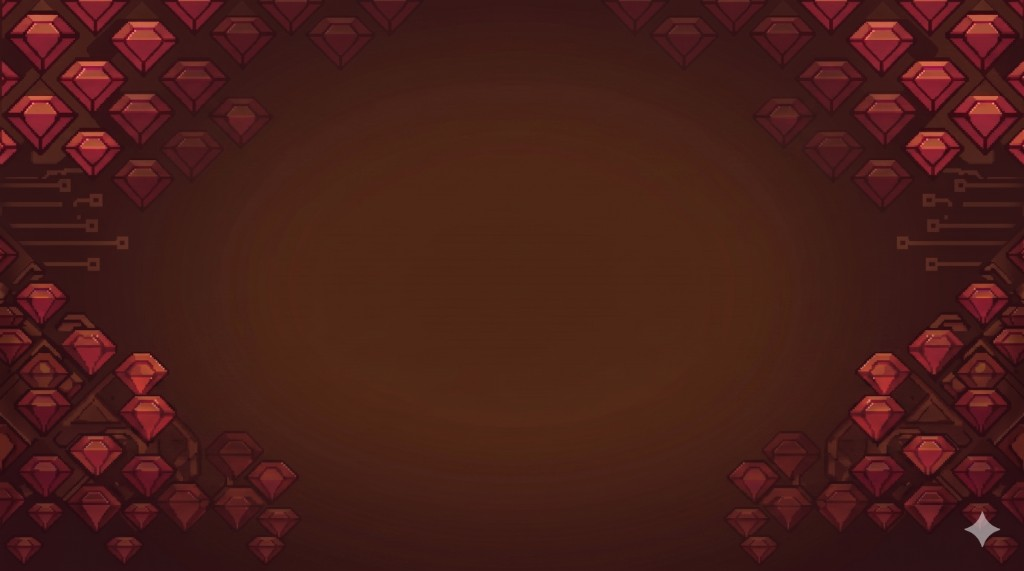
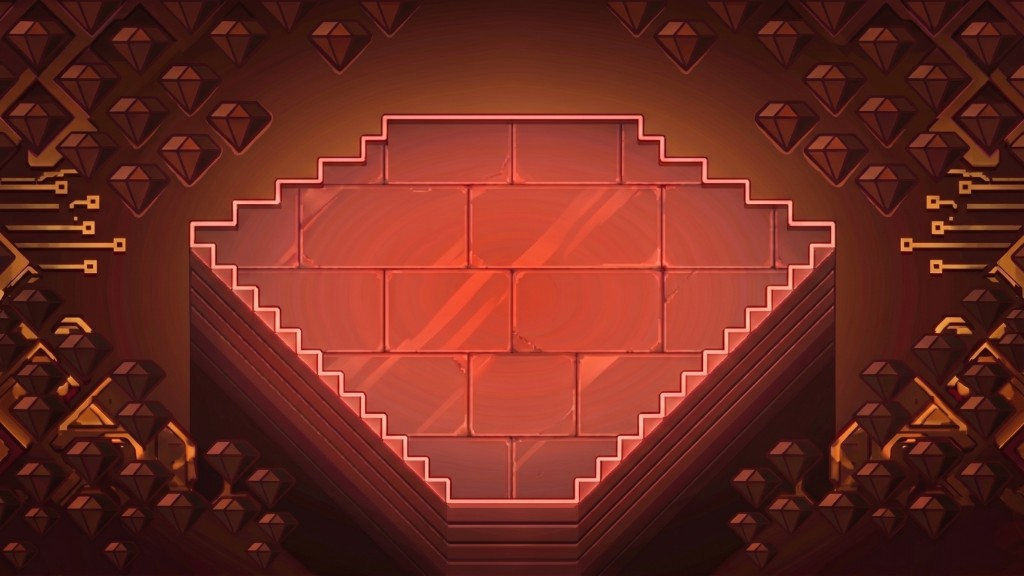
feat: タイトル調整・試合前カウントダウン・ロゴ透過処理

diff --git a/build/rubyfight.js b/build/rubyfight.js
@@ -24735,7 +24735,7 @@ Opal.modules["rubyfight/game_config"] = function(Opal) {
         grid_rows = 18;
         field_w = $rb_times(tile, grid_cols);
         field_h = $rb_times(tile, grid_rows);
-        return $hash2(["WIDTH", "HEIGHT", "TILE_SIZE", "GRID_COLS", "GRID_ROWS", "PLAYER_SIZE", "BASE_SPEED", "SPEED_UP_MULTIPLIER", "CPU_SPEED_MULTIPLIER", "PLAYER_VIS_SMOOTH", "COLORS", "GAME_TIME", "RUSH_TIME", "PLAY_P1_SHEET", "PLAY_P2_SHEET", "TITLE_PARTS", "LOGO_REMOVE_EDGE_BLACK", "LOGO_KEY_MAX_RGB", "TITLE_CHAR_RED_SHEET", "TITLE_CHAR_BLUE_SHEET", "TITLE_BACKGROUND_URL", "ASSET_SHEET", "FIELD_WIDTH", "FIELD_HEIGHT", "OFFSET_X", "OFFSET_Y"], {"WIDTH": width, "HEIGHT": height, "TILE_SIZE": tile, "GRID_COLS": grid_cols, "GRID_ROWS": grid_rows, "PLAYER_SIZE": 28, "BASE_SPEED": 160, "SPEED_UP_MULTIPLIER": 1.4, "CPU_SPEED_MULTIPLIER": 1.42, "PLAYER_VIS_SMOOTH": 0, "COLORS": $hash2(["bg", "fieldBg", "p1", "p2", "ui", "highlight", "hudGold", "hudGoldDim"], {"bg": "#2e0f0f", "fieldBg": "#4a1a1a", "p1": $hash2(["tile", "player"], {"tile": "#e65c5c", "player": "#c44848"}), "p2": $hash2(["tile", "player"], {"tile": "#6ea2e4", "player": "#487ec4"}), "ui": "#ffdddd", "highlight": "#ffffff", "hudGold": "#f5b042", "hudGoldDim": "#c98a2c"}), "GAME_TIME": 55, "RUSH_TIME": 15, "PLAY_P1_SHEET": $hash2(["urlLeft", "urlRight", "cols", "rows", "frameLayout", "walkCyclesPerSec", "removeMatte", "matteDarkMax", "matteColorMin"], {"urlLeft": "assets/play/p1_walk_left.png", "urlRight": "assets/play/p1_walk_right.png", "cols": 4, "rows": 1, "frameLayout": "row", "walkCyclesPerSec": 10, "removeMatte": true, "matteDarkMax": 40, "matteColorMin": 45}), "PLAY_P2_SHEET": $hash2(["url", "cols", "rows", "frameLayout", "walkCyclesPerSec", "removeEdgeWhite", "keyMinRgb"], {"url": "assets/play/p2_walk.png", "cols": 4, "rows": 1, "frameLayout": "row", "walkCyclesPerSec": 10, "removeEdgeWhite": true, "keyMinRgb": 248}), "TITLE_PARTS": $hash2(["background", "logo", "charLeft", "charRight"], {"background": "", "logo": "assets/title/logo.png", "charLeft": "", "charRight": ""}), "LOGO_REMOVE_EDGE_BLACK": true, "LOGO_KEY_MAX_RGB": 32, "TITLE_CHAR_RED_SHEET": $hash2(["url", "cols", "rows", "frameWidth", "frameHeight", "frameLayout", "fps", "frameStart", "frameCount", "fit", "clip", "sheetVAlign", "keyByMaxChannel", "removeEdgeBlack", "removeMatte", "matteDarkMax", "matteColorMin"], {"url": "assets/title/char_red_sheet.png?v=17", "cols": 24, "rows": 1, "frameWidth": 57, "frameHeight": 80, "frameLayout": "row", "fps": 24, "frameStart": 0, "frameCount": 24, "fit": "contain", "clip": false, "sheetVAlign": "bottom", "keyByMaxChannel": 24, "removeEdgeBlack": false, "removeMatte": false, "matteDarkMax": 40, "matteColorMin": 34}), "TITLE_CHAR_BLUE_SHEET": $hash2(["url", "cols", "rows", "frameLayout", "fps", "frameStart", "frameCount", "fit", "clip", "sheetVAlign", "sheetSourceUniformMax", "atlasSourceExact", "sheetSourceTrimEndX", "keyByMaxChannel", "removeEdgeBlack", "removeMatte"], {"url": "assets/title/char_blue_sheet.png?v=40", "cols": 24, "rows": 1, "frameLayout": "row", "fps": 24, "frameStart": 0, "frameCount": 24, "fit": "contain", "clip": false, "sheetVAlign": "center", "sheetSourceUniformMax": false, "atlasSourceExact": false, "sheetSourceTrimEndX": 4, "keyByMaxChannel": 32, "removeEdgeBlack": false, "removeMatte": false}), "TITLE_BACKGROUND_URL": "assets/title/title_background.png", "ASSET_SHEET": $hash2(["url", "sheetW", "sheetH", "cols", "rows", "gridRect", "cellInset", "tileScale", "cells"], {"url": "assets/title/asset_sheet.png", "sheetW": 1024, "sheetH": 571, "cols": 3, "rows": 2, "gridRect": $hash2(["x", "y", "w", "h"], {"x": 12, "y": 54, "w": 1000, "h": 476}), "cellInset": 2, "tileScale": 0.55, "cells": $hash2(["logo", "charRed", "charBlue", "backgroundPattern", "fieldGrid", "uiRef"], {"logo": [0, 0], "charRed": [1, 0], "charBlue": [2, 0], "backgroundPattern": [0, 1], "fieldGrid": [1, 1], "uiRef": [2, 1]})}), "FIELD_WIDTH": field_w, "FIELD_HEIGHT": field_h, "OFFSET_X": $rb_divide($rb_minus(width, field_w), 2), "OFFSET_Y": 110});
+        return $hash2(["WIDTH", "HEIGHT", "TILE_SIZE", "GRID_COLS", "GRID_ROWS", "PLAYER_SIZE", "BASE_SPEED", "SPEED_UP_MULTIPLIER", "CPU_SPEED_MULTIPLIER", "PLAYER_VIS_SMOOTH", "COLORS", "GAME_TIME", "RUSH_TIME", "PREPLAY_COUNTDOWN_SEC", "PLAY_P1_SHEET", "PLAY_P2_SHEET", "TITLE_PARTS", "LOGO_REMOVE_EDGE_BLACK", "LOGO_KEY_MAX_RGB", "LOGO_KEY_BY_MAX_CHANNEL", "TITLE_CHAR_RED_SHEET", "TITLE_CHAR_BLUE_SHEET", "TITLE_BACKGROUND_URL", "ASSET_SHEET", "FIELD_WIDTH", "FIELD_HEIGHT", "OFFSET_X", "OFFSET_Y"], {"WIDTH": width, "HEIGHT": height, "TILE_SIZE": tile, "GRID_COLS": grid_cols, "GRID_ROWS": grid_rows, "PLAYER_SIZE": 28, "BASE_SPEED": 160, "SPEED_UP_MULTIPLIER": 1.4, "CPU_SPEED_MULTIPLIER": 1.42, "PLAYER_VIS_SMOOTH": 0, "COLORS": $hash2(["bg", "fieldBg", "p1", "p2", "ui", "highlight", "hudGold", "hudGoldDim"], {"bg": "#2e0f0f", "fieldBg": "#4a1a1a", "p1": $hash2(["tile", "player"], {"tile": "#e65c5c", "player": "#c44848"}), "p2": $hash2(["tile", "player"], {"tile": "#6ea2e4", "player": "#487ec4"}), "ui": "#ffdddd", "highlight": "#ffffff", "hudGold": "#f5b042", "hudGoldDim": "#c98a2c"}), "GAME_TIME": 55, "RUSH_TIME": 15, "PREPLAY_COUNTDOWN_SEC": 5, "PLAY_P1_SHEET": $hash2(["urlLeft", "urlRight", "cols", "rows", "frameLayout", "walkCyclesPerSec", "removeMatte", "matteDarkMax", "matteColorMin"], {"urlLeft": "assets/play/p1_walk_left.png", "urlRight": "assets/play/p1_walk_right.png", "cols": 4, "rows": 1, "frameLayout": "row", "walkCyclesPerSec": 10, "removeMatte": true, "matteDarkMax": 40, "matteColorMin": 45}), "PLAY_P2_SHEET": $hash2(["url", "cols", "rows", "frameLayout", "walkCyclesPerSec", "removeEdgeWhite", "keyMinRgb"], {"url": "assets/play/p2_walk.png", "cols": 4, "rows": 1, "frameLayout": "row", "walkCyclesPerSec": 10, "removeEdgeWhite": true, "keyMinRgb": 248}), "TITLE_PARTS": $hash2(["background", "logo", "charLeft", "charRight"], {"background": "", "logo": "assets/title/logo.png", "charLeft": "", "charRight": ""}), "LOGO_REMOVE_EDGE_BLACK": true, "LOGO_KEY_MAX_RGB": 32, "LOGO_KEY_BY_MAX_CHANNEL": 24, "TITLE_CHAR_RED_SHEET": $hash2(["url", "cols", "rows", "frameWidth", "frameHeight", "frameLayout", "fps", "frameStart", "frameCount", "fit", "clip", "sheetVAlign", "keyByMaxChannel", "removeEdgeBlack", "removeMatte", "matteDarkMax", "matteColorMin"], {"url": "assets/title/char_red_sheet.png?v=17", "cols": 24, "rows": 1, "frameWidth": 57, "frameHeight": 80, "frameLayout": "row", "fps": 24, "frameStart": 0, "frameCount": 24, "fit": "contain", "clip": false, "sheetVAlign": "bottom", "keyByMaxChannel": 24, "removeEdgeBlack": false, "removeMatte": false, "matteDarkMax": 40, "matteColorMin": 34}), "TITLE_CHAR_BLUE_SHEET": $hash2(["url", "cols", "rows", "frameLayout", "fps", "frameStart", "frameCount", "fit", "clip", "sheetVAlign", "sheetSourceUniformMax", "atlasSourceExact", "sheetSourceTrimEndX", "keyByMaxChannel", "removeEdgeBlack", "removeMatte"], {"url": "assets/title/char_blue_sheet.png?v=40", "cols": 24, "rows": 1, "frameLayout": "row", "fps": 24, "frameStart": 0, "frameCount": 24, "fit": "contain", "clip": false, "sheetVAlign": "center", "sheetSourceUniformMax": false, "atlasSourceExact": false, "sheetSourceTrimEndX": 4, "keyByMaxChannel": 32, "removeEdgeBlack": false, "removeMatte": false}), "TITLE_BACKGROUND_URL": "assets/title/title_background.png", "ASSET_SHEET": $hash2(["url", "sheetW", "sheetH", "cols", "rows", "gridRect", "cellInset", "tileScale", "cells"], {"url": "assets/title/asset_sheet.png", "sheetW": 1024, "sheetH": 571, "cols": 3, "rows": 2, "gridRect": $hash2(["x", "y", "w", "h"], {"x": 12, "y": 54, "w": 1000, "h": 476}), "cellInset": 2, "tileScale": 0.55, "cells": $hash2(["logo", "charRed", "charBlue", "backgroundPattern", "fieldGrid", "uiRef"], {"logo": [0, 0], "charRed": [1, 0], "charBlue": [2, 0], "backgroundPattern": [0, 1], "fieldGrid": [1, 1], "uiRef": [2, 1]})}), "FIELD_WIDTH": field_w, "FIELD_HEIGHT": field_h, "OFFSET_X": $rb_divide($rb_minus(width, field_w), 2), "OFFSET_Y": 110});
       }, $GameConfig_to_browser_hash$1.$$arity = 0);
       Opal.defs(self, '$field_width', $GameConfig_field_width$2 = function $$field_width() {
         var self = this;

diff --git a/index.html b/index.html
@@ -99,7 +99,8 @@
       },
 
       GAME_TIME: 55,         
-      RUSH_TIME: 15,         
+      RUSH_TIME: 15,
+      PREPLAY_COUNTDOWN_SEC: 5,
 
       PLAY_P1_SHEET: {
         urlLeft: 'assets/play/p1_walk_left.png',
@@ -131,9 +132,10 @@
         charRight: ''
       },
 
-      // ロゴ PNG が黒ベタ背景のとき、画面端からつながる近黒ピクセルだけ透明化（文字の内側の黒は残しやすい）
+      // ロゴ PNG: 周縁からの近黒 BFS → 任意で max(r,g,b) しきいで穴のベタ黒も透過（keyDarkByMaxChannel）
       LOGO_REMOVE_EDGE_BLACK: true,
       LOGO_KEY_MAX_RGB: 32,
+      LOGO_KEY_BY_MAX_CHANNEL: 24,
 
       TITLE_CHAR_RED_SHEET: {
         url: 'assets/title/char_red_sheet.png?v=17',
@@ -344,6 +346,10 @@
     let rubyBounceGrid = [];
     /** タイトルメニュー 0..1: 1P VS CPU, 1P VS 2P */
     let titleMenuIndex = 0;
+
+    /** 試合直前カウントダウン（state === 'COUNTDOWN'） */
+    let countdownElapsed = 0;
+    let countdownLastFloor = -1;
     
     let p1 = { x: 0, y: 0 };
     let p2 = { x: 0, y: 0 };
@@ -1377,11 +1383,16 @@
       jobs.forEach(([key, url]) => {
         pending++;
         loadImageSrc(url).then((img) => {
-          if (key === 'logo' && img && CONFIG.LOGO_REMOVE_EDGE_BLACK) {
-            titlePartImages[key] = removeEdgeConnectedNearBlack(
-              img,
-              CONFIG.LOGO_KEY_MAX_RGB
-            );
+          if (key === 'logo' && img) {
+            let out = img;
+            if (CONFIG.LOGO_REMOVE_EDGE_BLACK) {
+              out = removeEdgeConnectedNearBlack(out, CONFIG.LOGO_KEY_MAX_RGB);
+            }
+            const kmc = CONFIG.LOGO_KEY_BY_MAX_CHANNEL;
+            if (kmc != null && kmc !== '' && isFinite(Number(kmc))) {
+              out = keyDarkByMaxChannel(out, Number(kmc));
+            }
+            titlePartImages[key] = out;
           } else {
             titlePartImages[key] = img;
           }
@@ -1442,6 +1453,13 @@
         gain.gain.exponentialRampToValueAtTime(0.01, now + 0.1);
         osc.start(now);
         osc.stop(now + 0.1);
+      } else if (type === 'countdown') {
+        osc.type = 'square';
+        osc.frequency.setValueAtTime(720, now);
+        gain.gain.setValueAtTime(0.08, now);
+        gain.gain.exponentialRampToValueAtTime(0.01, now + 0.07);
+        osc.start(now);
+        osc.stop(now + 0.08);
       } else if (type === 'finish') {
         osc.type = 'triangle';
         osc.frequency.setValueAtTime(880, now);
@@ -1740,7 +1758,11 @@
           }
         }
         return;
-      } else if (state === 'PLAYING') {
+      }
+      if (state === 'COUNTDOWN') {
+        return;
+      }
+      if (state === 'PLAYING') {
         if (mode === 1) {
           if (code === 'Space' || code === 'Enter') placeFlag(p1, 1);
         } else {
@@ -1768,8 +1790,9 @@
     // ゲームロジック
     // ==========================================
     function startGame() {
-      state = 'PLAYING';
-      stateStartTime = Date.now();
+      state = 'COUNTDOWN';
+      countdownElapsed = 0;
+      countdownLastFloor = -1;
       if (window.RUBYFIGHT && window.RUBYFIGHT_SYNCED && typeof window.RUBYFIGHT.sessionInitialTimeRemaining === 'function') {
         timeRemaining = window.RUBYFIGHT.sessionInitialTimeRemaining();
       } else {
@@ -1829,8 +1852,6 @@
       p2LastPos = { x: p2.x, y: p2.y };
 
       calcScore();
-      // playSound は Web Audio 失敗しうる。state=PLAYING のあと最後に（途中で投げると grid/p1 未初期化のままになる）
-      playSound('select');
       canvas.focus({ preventScroll: true });
     }
 
@@ -2161,6 +2182,22 @@
     }
 
     function update(dt) {
+      if (state === 'COUNTDOWN') {
+        const raw = CONFIG.PREPLAY_COUNTDOWN_SEC != null ? CONFIG.PREPLAY_COUNTDOWN_SEC : 5;
+        const total = isFinite(Number(raw)) && Number(raw) > 0 ? Number(raw) : 5;
+        countdownElapsed += dt;
+        const f = Math.floor(countdownElapsed);
+        if (f !== countdownLastFloor) {
+          countdownLastFloor = f;
+          if (f < total) playSound('countdown');
+        }
+        if (countdownElapsed >= total) {
+          state = 'PLAYING';
+          stateStartTime = Date.now();
+          playSound('select');
+        }
+        return;
+      }
       if (state === 'PLAYING') {
         if (window.RUBYFIGHT && window.RUBYFIGHT_SYNCED && typeof window.RUBYFIGHT.gameStateTickPlaying === 'function') {
           const tick = window.RUBYFIGHT.gameStateTickPlaying(timeRemaining, dt);
@@ -2356,12 +2393,30 @@
 
       if (state === 'TITLE') {
         drawTitle();
-      } else if (state === 'PLAYING' || state === 'RESULT') {
+      } else if (state === 'PLAYING' || state === 'RESULT' || state === 'COUNTDOWN') {
         drawPlayBackdrop();
         drawField();
         drawUI();
+        if (state === 'COUNTDOWN') drawPreplayCountdownOverlay();
         if (state === 'RESULT') drawResult();
       }
+    }
+
+    /** 試合開始前：5→…→1 を中央に重ね表示 */
+    function drawPreplayCountdownOverlay() {
+      const raw = CONFIG.PREPLAY_COUNTDOWN_SEC != null ? CONFIG.PREPLAY_COUNTDOWN_SEC : 5;
+      const total = isFinite(Number(raw)) && Number(raw) > 0 ? Number(raw) : 5;
+      const n = Math.ceil(total - countdownElapsed);
+      if (n <= 0) return;
+      ctx.save();
+      ctx.fillStyle = 'rgba(0, 0, 0, 0.52)';
+      ctx.fillRect(0, 0, CONFIG.WIDTH, CONFIG.HEIGHT);
+      ctx.fillStyle = CONFIG.COLORS.hudGold;
+      ctx.textAlign = 'center';
+      ctx.textBaseline = 'middle';
+      ctx.font = '120px "Press Start 2P", monospace';
+      ctx.fillText(String(n), CONFIG.WIDTH / 2, CONFIG.HEIGHT / 2);
+      ctx.restore();
     }
 
     /** プレイ中：共通背景＋ビネット（フィールドは drawField / HUD は drawUI） */
@@ -2907,18 +2962,22 @@
 
       if (hasTitleBg) {
         drawImageInRect(titleBackgroundImg, { ...P.background, fit: 'cover' });
-        drawBackdropVignette(0.06);
+        drawBackdropVignette(0.14);
       } else if (sheetOk) {
         const [bgc, bgr] = sheetCellPair('backgroundPattern');
         drawTiledSheetCell(assetSheetImg, bgc, bgr, 0, 0, CONFIG.WIDTH, CONFIG.HEIGHT);
-        drawBackdropVignette(0.12);
+        drawBackdropVignette(0.18);
       } else if (titlePartImages.background) {
         drawImageInRect(titlePartImages.background, P.background);
-        drawBackdropVignette(0.18);
+        drawBackdropVignette(0.24);
       } else {
         drawRubyPatternBackdrop();
-        drawBackdropVignette(0.38);
+        drawBackdropVignette(0.42);
       }
+
+      // タイトル専用：背景を少し落ち着かせる（プレイ中の明るさは変えない）
+      ctx.fillStyle = 'rgba(0, 0, 0, 0.48)';
+      ctx.fillRect(0, 0, CONFIG.WIDTH, CONFIG.HEIGHT);
 
       const hasLogoPng = drawableSize(titlePartImages.logo).w > 0;
       if (hasLogoPng) {

diff --git a/lib/rubyfight/game_config.rb b/lib/rubyfight/game_config.rb
@@ -34,6 +34,8 @@ module Rubyfight
         },
         'GAME_TIME' => 55,
         'RUSH_TIME' => 15,
+        # タイトルから試合開始までのカウント（秒）。1 秒ごとに 5→…→1 表示
+        'PREPLAY_COUNTDOWN_SEC' => 5,
         # プレイ中の歩行（左・右で別シート、各 1x4）
         'PLAY_P1_SHEET' => {
           'urlLeft' => 'assets/play/p1_walk_left.png',
@@ -63,6 +65,8 @@ module Rubyfight
         },
         'LOGO_REMOVE_EDGE_BLACK' => true,
         'LOGO_KEY_MAX_RGB' => 32,
+        # max(r,g,b) <= この値なら透過（周縁 BFS では届かない文字の穴のベタ黒用）。影が欠ける時は下げる / null で無効
+        'LOGO_KEY_BY_MAX_CHANNEL' => 24,
         'TITLE_CHAR_RED_SHEET' => {
           'url' => 'assets/title/char_red_sheet.png?v=17',
           # 実寸 1368×80 = 24×57（元 1365 に右 3px: script/pad_char_red_sheet_to_24_cols.rb）

diff --git a/lib/rubyfight/game_state.rb b/lib/rubyfight/game_state.rb
@@ -4,6 +4,7 @@ require 'rubyfight/graphics'
 module Rubyfight
   module GameState
     TITLE = 'TITLE'
+    COUNTDOWN = 'COUNTDOWN'
     PLAYING = 'PLAYING'
     RESULT = 'RESULT'
 
